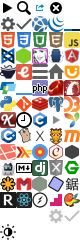
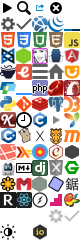
Add io.js documentation

Changed region(s): [[0.4, 0.9333, 0.6, 1.0]]

diff --git a/assets/stylesheets/global/_icons.scss b/assets/stylesheets/global/_icons.scss
@@ -84,3 +84,4 @@
 %icon-check-white           { background-position: -4rem -13rem; }
 %icon-light                 { background-position: 0 -14rem; }
 %icon-light-white           { background-position: -1rem -14rem; }
+._icon-iojs:before          { background-position: -2rem -14rem; }

diff --git a/lib/docs/scrapers/iojs.rb b/lib/docs/scrapers/iojs.rb
@@ -1,0 +1,21 @@
+module Docs
+  class Iojs < UrlScraper
+    self.name = 'io.js'
+    self.slug = 'iojs'
+    self.type = 'node'
+    self.version = '1.2.0'
+    self.base_url = 'https://iojs.org/api/'
+
+    html_filters.push 'node/clean_html', 'node/entries', 'title'
+
+    options[:title] = false
+    options[:root_title] = 'io.js'
+    options[:container] = '#apicontent'
+    options[:skip] = %w(index.html all.html documentation.html synopsis.html)
+
+    options[:attribution] = <<-HTML
+      &copy; io.js contributors<br>
+      Licensed under the MIT License.
+    HTML
+  end
+end
